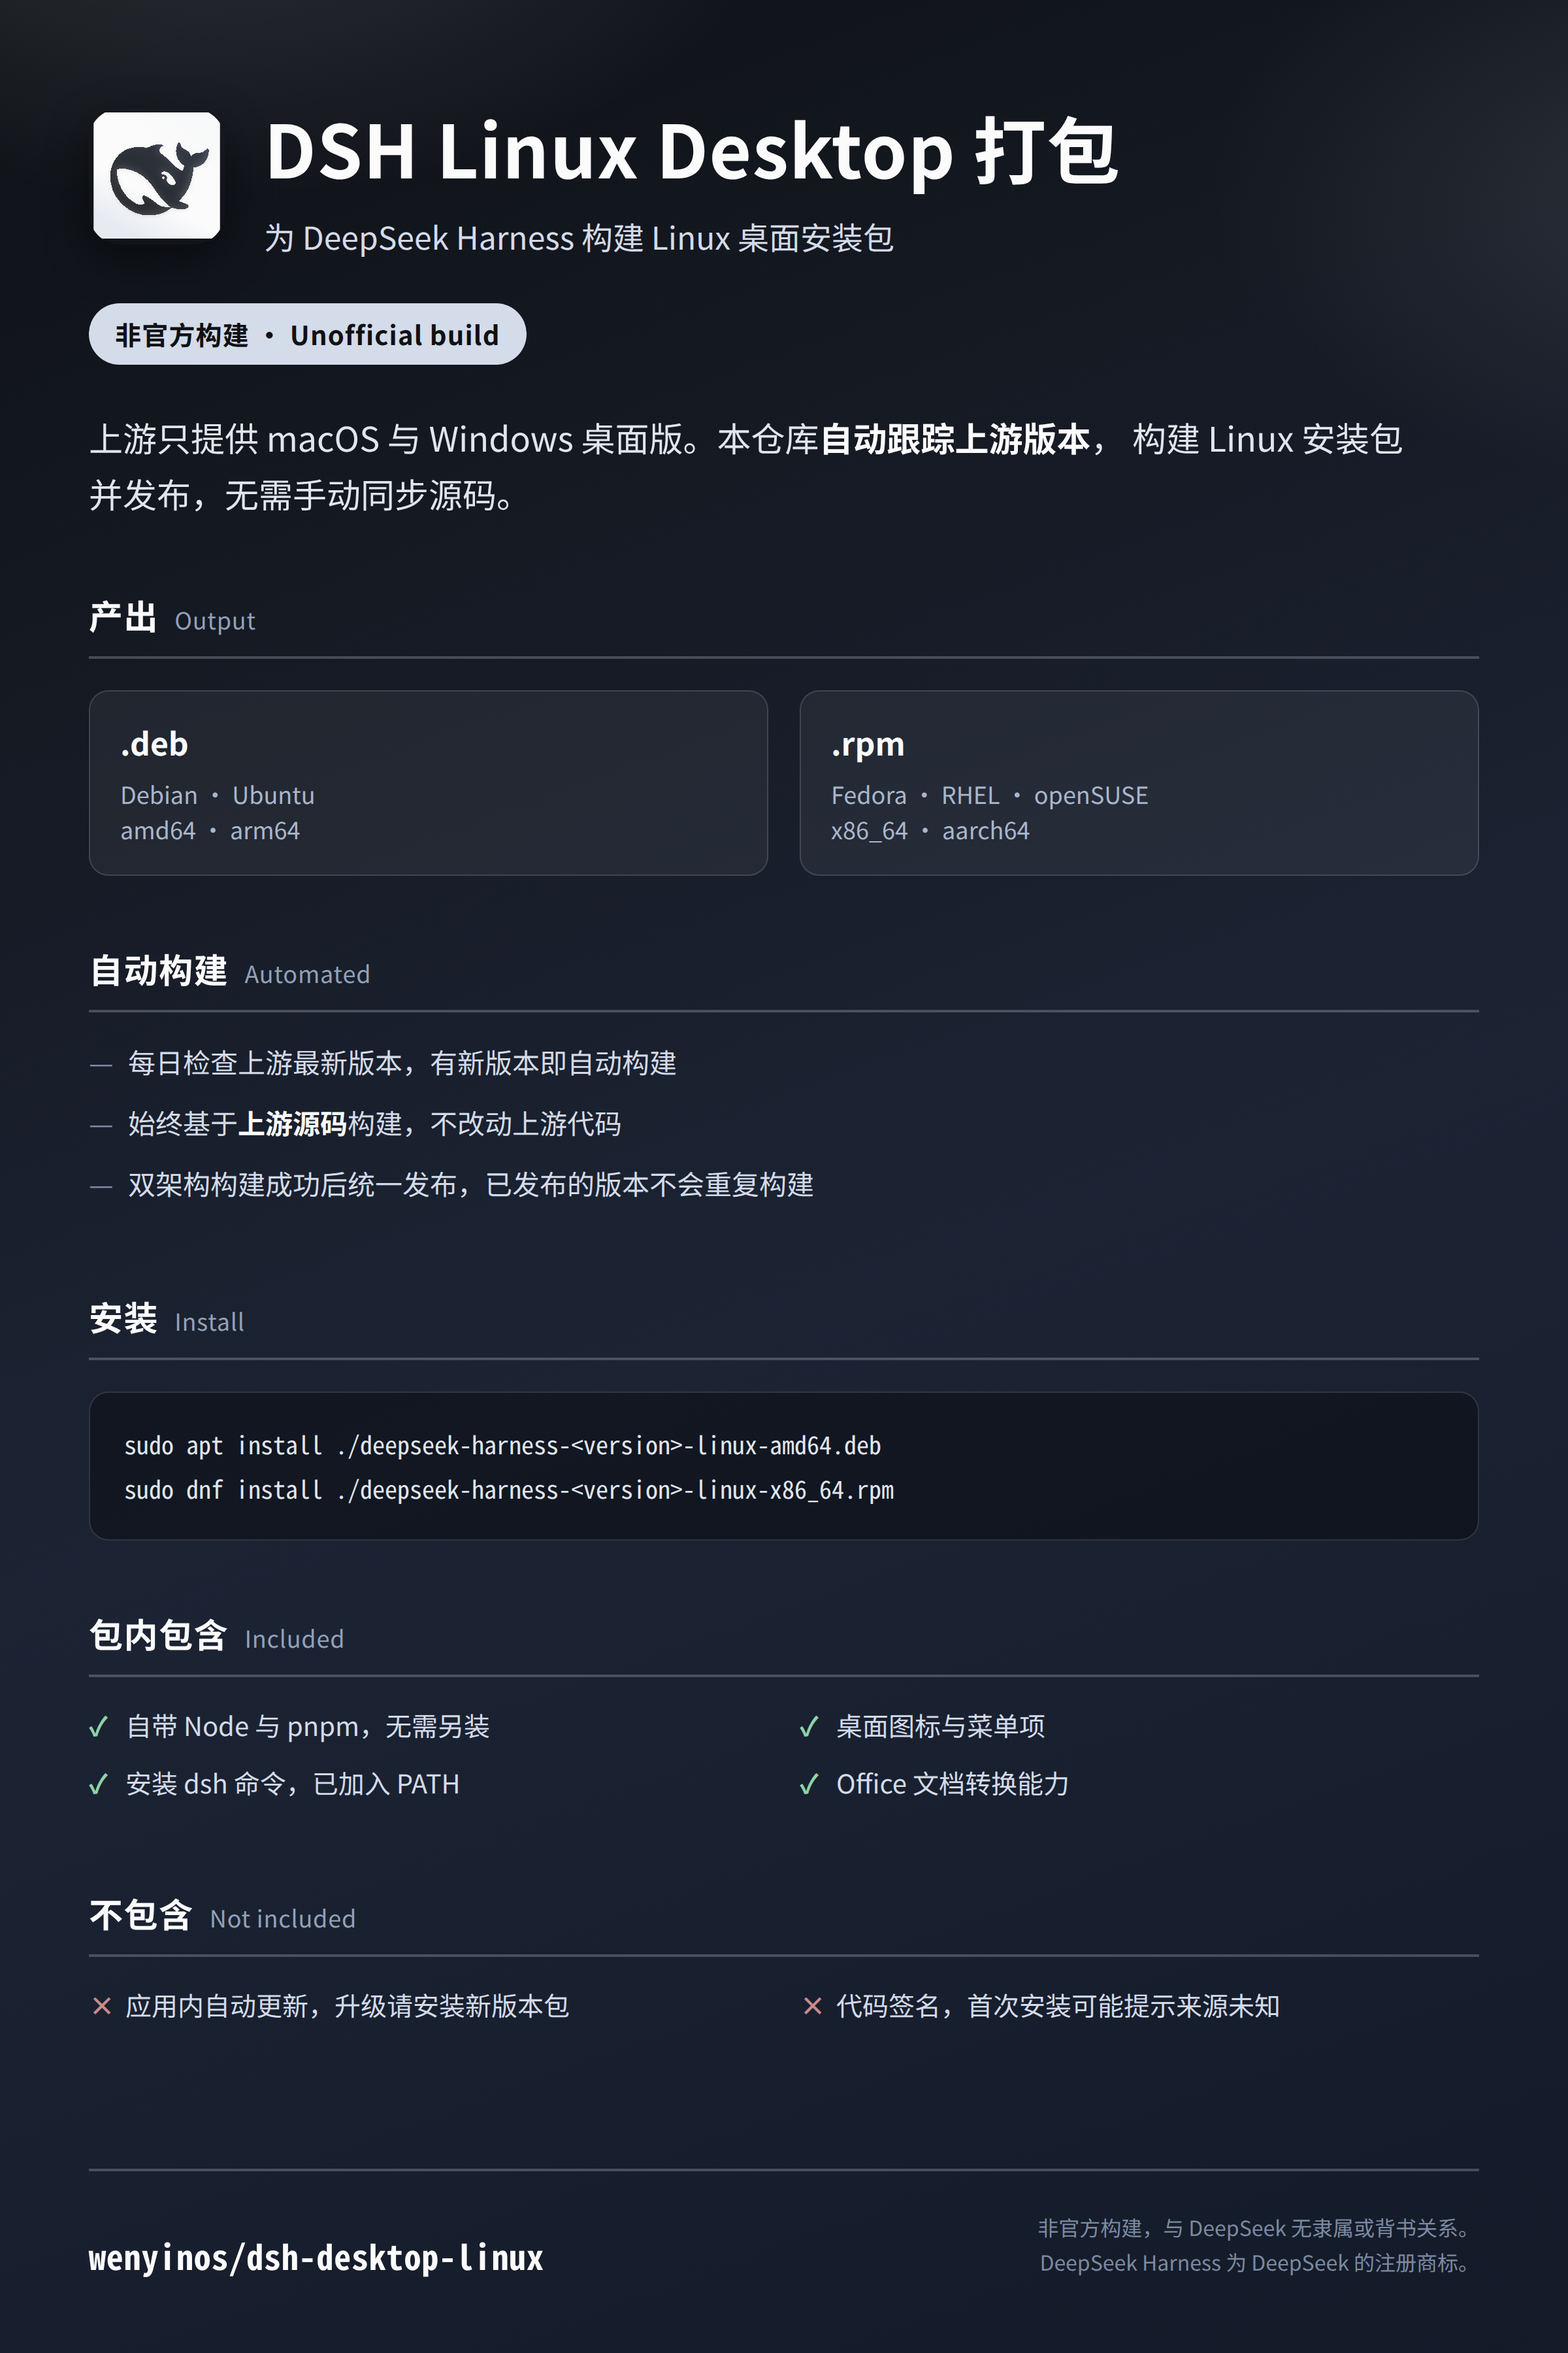
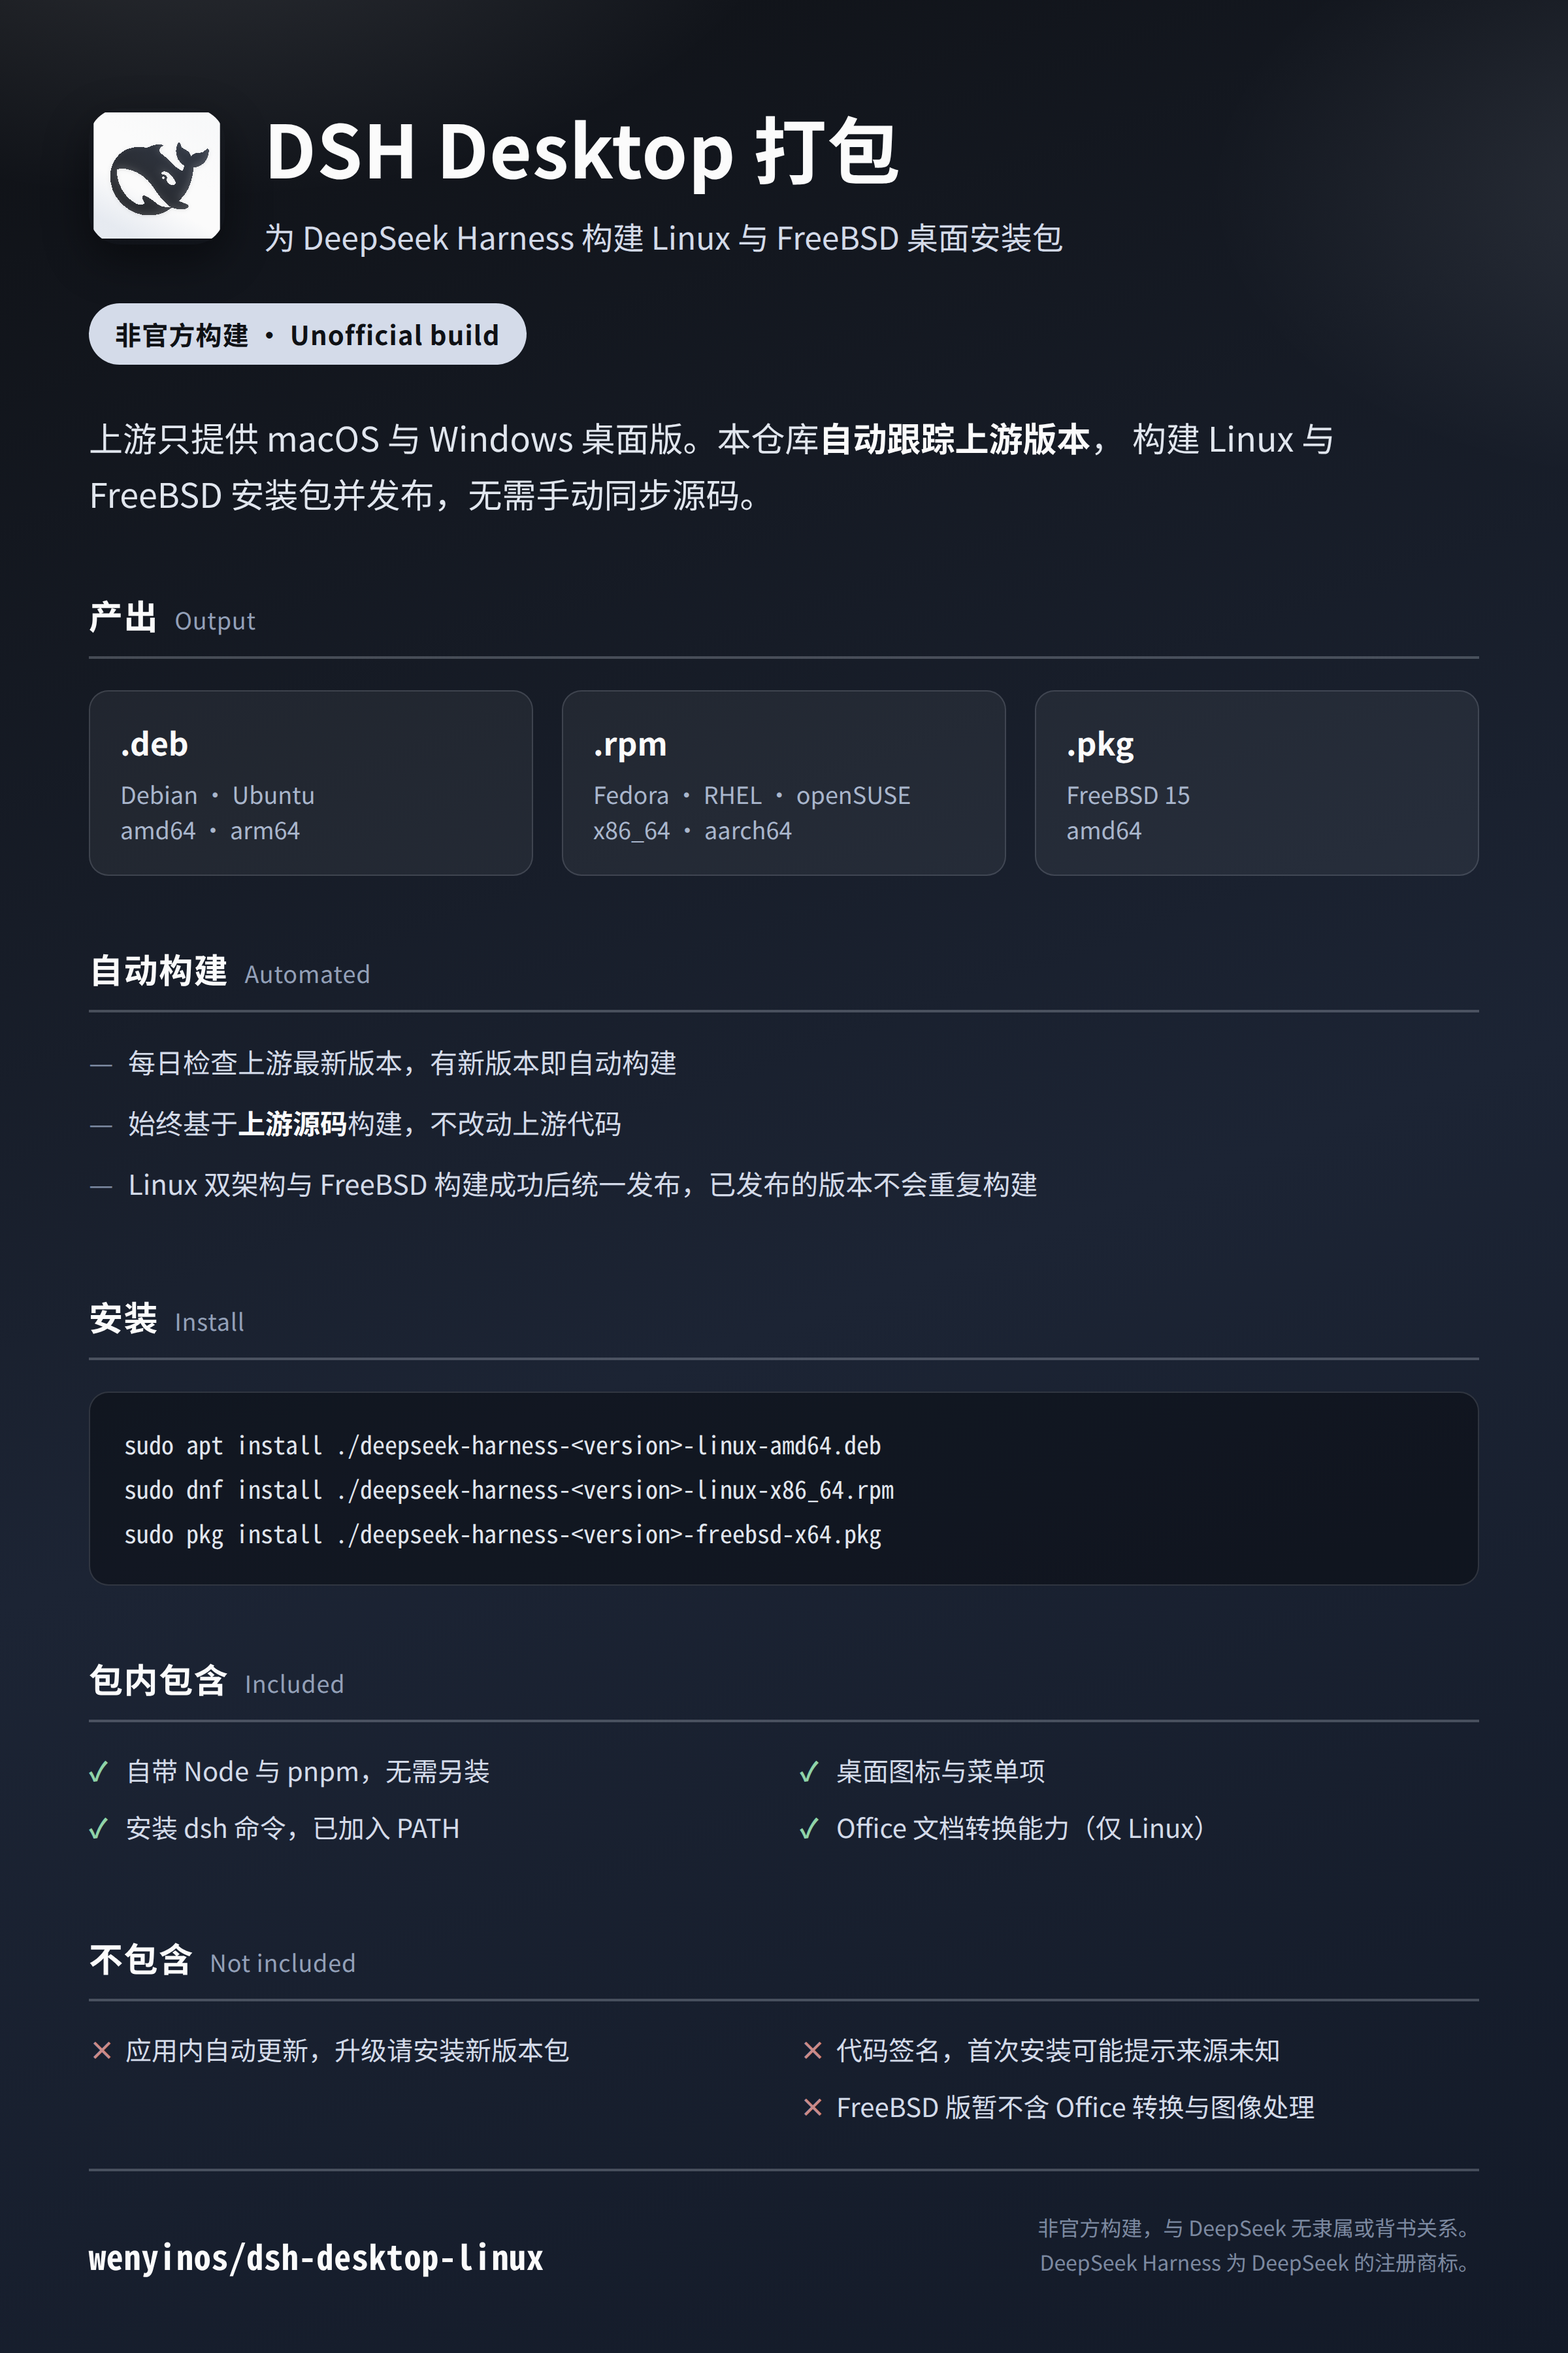
docs(site): show the FreeBSD package on the landing page and poster
The landing page and poster introduced only the Linux packages; this fork
now publishes a FreeBSD .pkg as well. Both list the new output, the FreeBSD
install command, and the FreeBSD platform notes, and poster.png is
re-rendered from the updated poster.html.

diff --git a/site/index.html b/site/index.html
@@ -3,10 +3,10 @@
 <head>
 <meta charset="utf-8">
 <meta name="viewport" content="width=device-width, initial-scale=1">
-<title>DSH Linux Desktop 打包</title>
-<meta name="description" content="为 DeepSeek Harness 自动构建 Linux 桌面安装包（deb / rpm，x64 与 arm64）。非官方构建。">
-<meta property="og:title" content="DSH Linux Desktop 打包">
-<meta property="og:description" content="为 DeepSeek Harness 自动构建 Linux 桌面安装包（deb / rpm，x64 与 arm64）。非官方构建。">
+<title>DSH Desktop 打包</title>
+<meta name="description" content="为 DeepSeek Harness 自动构建 Linux 与 FreeBSD 桌面安装包（deb / rpm / pkg）。非官方构建。">
+<meta property="og:title" content="DSH Desktop 打包">
+<meta property="og:description" content="为 DeepSeek Harness 自动构建 Linux 与 FreeBSD 桌面安装包（deb / rpm / pkg）。非官方构建。">
 <meta property="og:image" content="assets/poster.png">
 <meta property="og:type" content="website">
 <link rel="icon" href="assets/icon.svg">
@@ -105,16 +105,16 @@
   <header>
     <img src="assets/icon.svg" alt="">
     <div>
-      <h1>DSH Linux Desktop 打包</h1>
-      <p>为 DeepSeek Harness 构建 Linux 桌面安装包</p>
+      <h1>DSH Desktop 打包</h1>
+      <p>为 DeepSeek Harness 构建 Linux 与 FreeBSD 桌面安装包</p>
     </div>
   </header>
 
   <div class="badge">非官方构建 · Unofficial build</div>
 
   <p class="lede">
-    上游只提供 macOS 与 Windows 桌面版。本仓库<b>自动跟踪上游版本</b>，构建 Linux 安装包并发布，
-    无需手动同步源码。
+    上游只提供 macOS 与 Windows 桌面版。本仓库<b>自动跟踪上游版本</b>，构建 Linux 与 FreeBSD
+    安装包并发布，无需手动同步源码。
   </p>
 
   <div class="actions">
@@ -127,6 +127,7 @@
     <div class="grid">
       <div class="cell"><div class="k">.deb</div><div class="v">Debian · Ubuntu<br>amd64 · arm64</div></div>
       <div class="cell"><div class="k">.rpm</div><div class="v">Fedora · RHEL · openSUSE<br>x86_64 · aarch64</div></div>
+      <div class="cell"><div class="k">.pkg</div><div class="v">FreeBSD 15<br>amd64</div></div>
     </div>
   </section>
 
@@ -136,9 +137,13 @@
 sudo apt install ./deepseek-harness-&lt;version&gt;-linux-amd64.deb
 
 # Fedora / RHEL / openSUSE
-sudo dnf install ./deepseek-harness-&lt;version&gt;-linux-x86_64.rpm</pre>
+sudo dnf install ./deepseek-harness-&lt;version&gt;-linux-x86_64.rpm
+
+# FreeBSD 15
+sudo pkg install ./deepseek-harness-&lt;version&gt;-freebsd-x64.pkg</pre>
     <p class="lede" style="margin-top:18px;font-size:16px;color:#A9B6CC">
       请按 CPU 架构选择文件：<code>x86_64</code> / <code>amd64</code> 对应 x64，<code>aarch64</code> / <code>arm64</code> 对应 arm64。
+      FreeBSD 包的依赖（含 Electron 运行时）由 <code>pkg</code> 自动解析。
     </p>
   </section>
 
@@ -148,7 +153,16 @@ sudo dnf install ./deepseek-harness-&lt;version&gt;-linux-x86_64.rpm</pre>
       <li>自带 Node 与 pnpm，无需另外安装</li>
       <li>安装 <b>dsh</b> 命令并加入 <code>PATH</code></li>
       <li>桌面图标与菜单项</li>
-      <li>Office 文档转换能力</li>
+      <li>Office 文档转换能力（仅 Linux）</li>
+    </ul>
+  </section>
+
+  <section>
+    <h2>FreeBSD 说明 <small>FreeBSD notes</small></h2>
+    <ul class="plain">
+      <li>随 <b>FreeBSD 版 Electron</b> 运行时构建，依赖（含 Electron）由 <code>pkg</code> 从 FreeBSD 仓库自动解析</li>
+      <li>暂不包含 Office 文档转换与图像处理：相关依赖没有 FreeBSD 版本</li>
+      <li>暂不包含 Python 运行时载荷与沙箱功能；自带 Node 与 pnpm、命令行与插件管理仍可正常使用</li>
     </ul>
   </section>
 
@@ -165,7 +179,7 @@ sudo dnf install ./deepseek-harness-&lt;version&gt;-linux-x86_64.rpm</pre>
     <ul class="plain">
       <li>每日检查上游最新版本，有新版本即自动构建</li>
       <li>始终基于<b>上游源码</b>构建，不改动上游代码</li>
-      <li>双架构构建成功后统一发布；已发布的版本不会重复构建</li>
+      <li>Linux 双架构与 FreeBSD 包构建成功后统一发布；已发布的版本不会重复构建</li>
     </ul>
   </section>
 

diff --git a/site/poster.html b/site/poster.html
@@ -2,7 +2,7 @@
 <html lang="zh-CN">
 <head>
 <meta charset="utf-8">
-<title>DSH Linux Desktop 打包</title>
+<title>DSH Desktop 打包</title>
 <style>
   /* Rendered to assets/poster.png at 1200x1800. Regenerate after editing this file:
        google-chrome --headless --disable-gpu --hide-scrollbars --no-sandbox \
@@ -54,7 +54,7 @@
   }
   h2 span { font-size: 18px; color: #93A0B8; font-weight: 400; letter-spacing: .4px; }
 
-  .grid { display: grid; grid-template-columns: 1fr 1fr; gap: 18px 24px; margin-top: 24px; }
+  .grid { display: grid; grid-template-columns: 1fr 1fr 1fr; gap: 18px 22px; margin-top: 24px; }
   .cell {
     background: rgba(251,251,251,.055); border: 1px solid rgba(212,219,233,.16);
     border-radius: 15px; padding: 21px 23px;
@@ -104,8 +104,8 @@
   <header>
     <img src="assets/icon.svg" alt="">
     <div class="titles">
-      <h1>DSH Linux Desktop 打包</h1>
-      <p>为 DeepSeek Harness 构建 Linux 桌面安装包</p>
+      <h1>DSH Desktop 打包</h1>
+      <p>为 DeepSeek Harness 构建 Linux 与 FreeBSD 桌面安装包</p>
     </div>
   </header>
 
@@ -113,7 +113,7 @@
 
   <p class="lede">
     上游只提供 macOS 与 Windows 桌面版。本仓库<b>自动跟踪上游版本</b>，
-    构建 Linux 安装包并发布，无需手动同步源码。
+    构建 Linux 与 FreeBSD 安装包并发布，无需手动同步源码。
   </p>
 
   <section>
@@ -121,6 +121,7 @@
     <div class="grid">
       <div class="cell"><div class="k">.deb</div><div class="v">Debian · Ubuntu<br>amd64 · arm64</div></div>
       <div class="cell"><div class="k">.rpm</div><div class="v">Fedora · RHEL · openSUSE<br>x86_64 · aarch64</div></div>
+      <div class="cell"><div class="k">.pkg</div><div class="v">FreeBSD 15<br>amd64</div></div>
     </div>
   </section>
 
@@ -129,14 +130,15 @@
     <ul class="plain">
       <li>每日检查上游最新版本，有新版本即自动构建</li>
       <li>始终基于<b>上游源码</b>构建，不改动上游代码</li>
-      <li>双架构构建成功后统一发布，已发布的版本不会重复构建</li>
+      <li>Linux 双架构与 FreeBSD 构建成功后统一发布，已发布的版本不会重复构建</li>
     </ul>
   </section>
 
   <section>
     <h2>安装 <span>Install</span></h2>
     <pre>sudo apt install ./deepseek-harness-&lt;version&gt;-linux-amd64.deb
-sudo dnf install ./deepseek-harness-&lt;version&gt;-linux-x86_64.rpm</pre>
+sudo dnf install ./deepseek-harness-&lt;version&gt;-linux-x86_64.rpm
+sudo pkg install ./deepseek-harness-&lt;version&gt;-freebsd-x64.pkg</pre>
   </section>
 
   <section>
@@ -148,7 +150,7 @@ sudo dnf install ./deepseek-harness-&lt;version&gt;-linux-x86_64.rpm</pre>
       </ul>
       <ul class="list yes">
         <li>桌面图标与菜单项</li>
-        <li>Office 文档转换能力</li>
+        <li>Office 文档转换能力（仅 Linux）</li>
       </ul>
     </div>
   </section>
@@ -161,6 +163,7 @@ sudo dnf install ./deepseek-harness-&lt;version&gt;-linux-x86_64.rpm</pre>
       </ul>
       <ul class="list no">
         <li>代码签名，首次安装可能提示来源未知</li>
+        <li>FreeBSD 版暂不含 Office 转换与图像处理</li>
       </ul>
     </div>
   </section>
